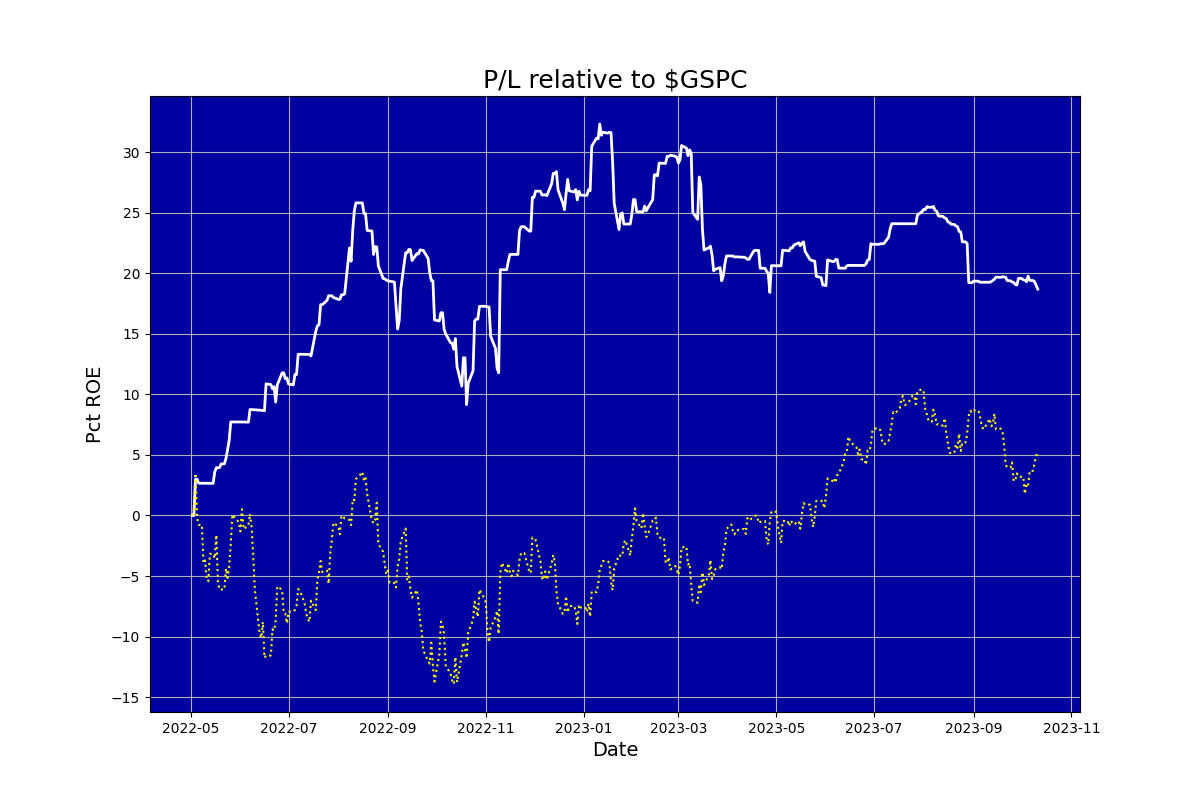
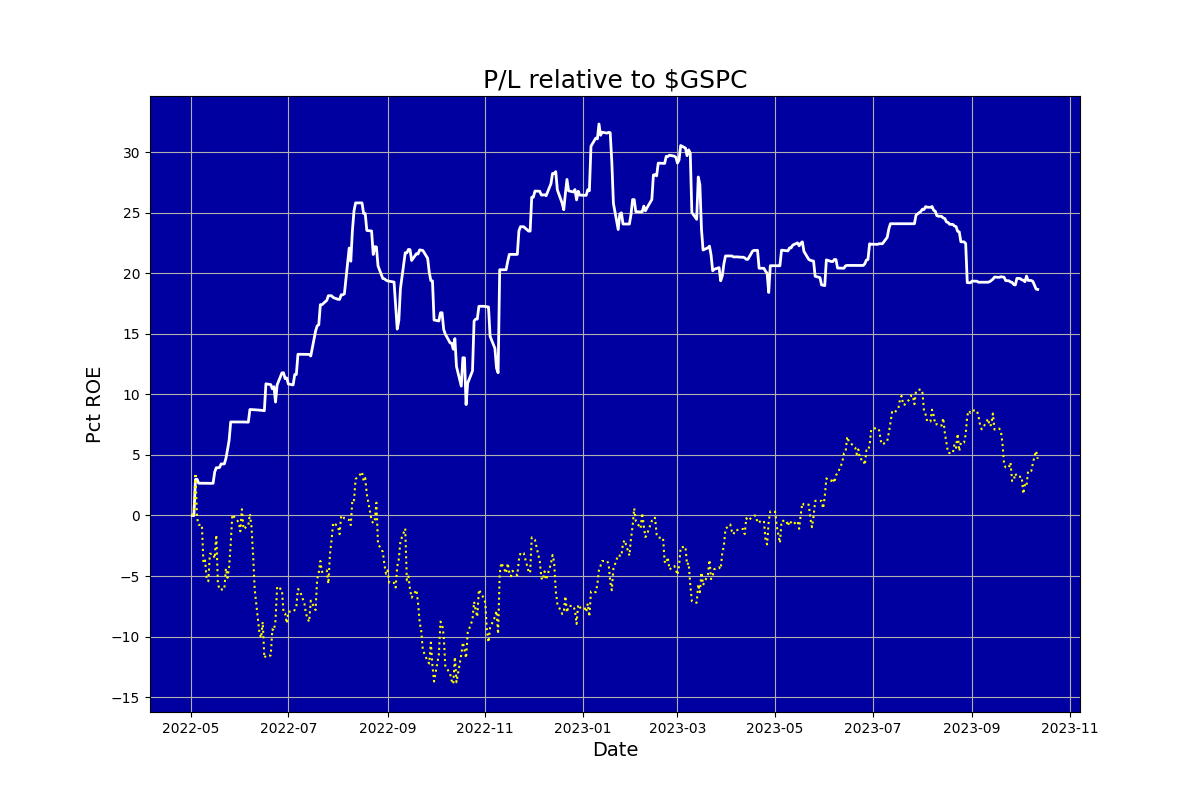
Updated

diff --git a/ig_report.html b/ig_report.html
@@ -1,1 +1,1 @@
-<html><body><center><h1>Auriel (never knowingly overbought)</h1></center><table cols=2><tr><td><img src=ig_pl.png></td><td><table cols=2><tr><td colspan=2><b><br>Snapshot</b></td></tr><tr><td>Last updated:&nbsp;&nbsp;&nbsp;</td><td>2023-10-11 15:54</td></tr><tr><td>Margin:&nbsp;&nbsp;&nbsp;</td><td>0.35</td></tr><tr><td>Cushion:&nbsp;&nbsp;&nbsp;</td><td>-44319.82</td></tr><tr><td>Last closed trade:&nbsp;&nbsp;&nbsp;</td><td>2023-10-11</td></tr><tr><td colspan=2><b><br>Positions</b></td></tr><tr><td>Mean days to new high:&nbsp;&nbsp;&nbsp;</td><td>17.05</td></tr><tr><td colspan=2><b><br>Trades</b></td></tr><tr><td>Traded days:&nbsp;&nbsp;&nbsp;</td><td>387</td></tr><tr><td>Profitable days pct:&nbsp;&nbsp;&nbsp;</td><td>34.37</td></tr><tr><td>Days beat S&P pct:&nbsp;&nbsp;&nbsp;</td><td>53.57</td></tr><tr><td>Profitable months pct:&nbsp;&nbsp;&nbsp;</td><td>61.11</td></tr><tr><td colspan=2><b><br>Performance</b></td></tr><tr><td>Pct median monthly ROE:&nbsp;&nbsp;&nbsp;</td><td>0.75</td></tr><tr><td>Pct annualised ROE:&nbsp;&nbsp;&nbsp;</td><td>12.08</td></tr><tr><td colspan=2><b><br>Risk</b></td></tr><tr><td>Volatility pct:&nbsp;&nbsp;&nbsp;</td><td>16.50</td></tr><tr><td>Benchmark volatility pct:&nbsp;&nbsp;&nbsp;</td><td>19.63</td></tr><tr><td>Sharpe ratio (RFR 5.0%):&nbsp;&nbsp;&nbsp;</td><td>0.53</td></tr><tr><td>Sortino ratio (RFR 5.0%):&nbsp;&nbsp;&nbsp;</td><td>0.71</td></tr><tr><td>Calmar ratio:&nbsp;&nbsp;&nbsp;</td><td>0.73</td></tr><tr><td>Worst drawdown pct:&nbsp;&nbsp;&nbsp;</td><td>-0.17</td></tr><tr><td>Recovery days from worst drawdown:&nbsp;&nbsp;&nbsp;</td><td>29.00</td></tr><tr><td>Beat benchmark +ve periods pct:&nbsp;&nbsp;&nbsp;</td><td>31.34</td></tr><tr><td>Beat benchmark -ve periods pct:&nbsp;&nbsp;&nbsp;</td><td>83.58</td></tr><tr><td>Correlation with benchmark:&nbsp;&nbsp;&nbsp;</td><td>0.33</td></tr></table></td></tr></table></body></html>
+<html><body><center><h1>Auriel (never knowingly overbought)</h1></center><table cols=2><tr><td><img src=ig_pl.png></td><td><table cols=2><tr><td colspan=2><b><br>Snapshot</b></td></tr><tr><td>Last updated:&nbsp;&nbsp;&nbsp;</td><td>2023-10-12 15:54</td></tr><tr><td>Margin:&nbsp;&nbsp;&nbsp;</td><td>0.38</td></tr><tr><td>Cushion:&nbsp;&nbsp;&nbsp;</td><td>-45666.27</td></tr><tr><td>Last closed trade:&nbsp;&nbsp;&nbsp;</td><td>2023-10-12</td></tr><tr><td colspan=2><b><br>Positions</b></td></tr><tr><td>Mean days to new high:&nbsp;&nbsp;&nbsp;</td><td>17.10</td></tr><tr><td colspan=2><b><br>Trades</b></td></tr><tr><td>Traded days:&nbsp;&nbsp;&nbsp;</td><td>388</td></tr><tr><td>Profitable days pct:&nbsp;&nbsp;&nbsp;</td><td>34.28</td></tr><tr><td>Days beat S&P pct:&nbsp;&nbsp;&nbsp;</td><td>53.70</td></tr><tr><td>Profitable months pct:&nbsp;&nbsp;&nbsp;</td><td>61.11</td></tr><tr><td colspan=2><b><br>Performance</b></td></tr><tr><td>Pct median monthly ROE:&nbsp;&nbsp;&nbsp;</td><td>0.75</td></tr><tr><td>Pct annualised ROE:&nbsp;&nbsp;&nbsp;</td><td>12.03</td></tr><tr><td colspan=2><b><br>Risk</b></td></tr><tr><td>Volatility pct:&nbsp;&nbsp;&nbsp;</td><td>16.48</td></tr><tr><td>Benchmark volatility pct:&nbsp;&nbsp;&nbsp;</td><td>19.62</td></tr><tr><td>Sharpe ratio (RFR 5.0%):&nbsp;&nbsp;&nbsp;</td><td>0.53</td></tr><tr><td>Sortino ratio (RFR 5.0%):&nbsp;&nbsp;&nbsp;</td><td>0.71</td></tr><tr><td>Calmar ratio:&nbsp;&nbsp;&nbsp;</td><td>0.72</td></tr><tr><td>Worst drawdown pct:&nbsp;&nbsp;&nbsp;</td><td>-0.17</td></tr><tr><td>Recovery days from worst drawdown:&nbsp;&nbsp;&nbsp;</td><td>29.00</td></tr><tr><td>Beat benchmark +ve periods pct:&nbsp;&nbsp;&nbsp;</td><td>31.22</td></tr><tr><td>Beat benchmark -ve periods pct:&nbsp;&nbsp;&nbsp;</td><td>83.35</td></tr><tr><td>Correlation with benchmark:&nbsp;&nbsp;&nbsp;</td><td>0.33</td></tr></table></td></tr></table></body></html>
